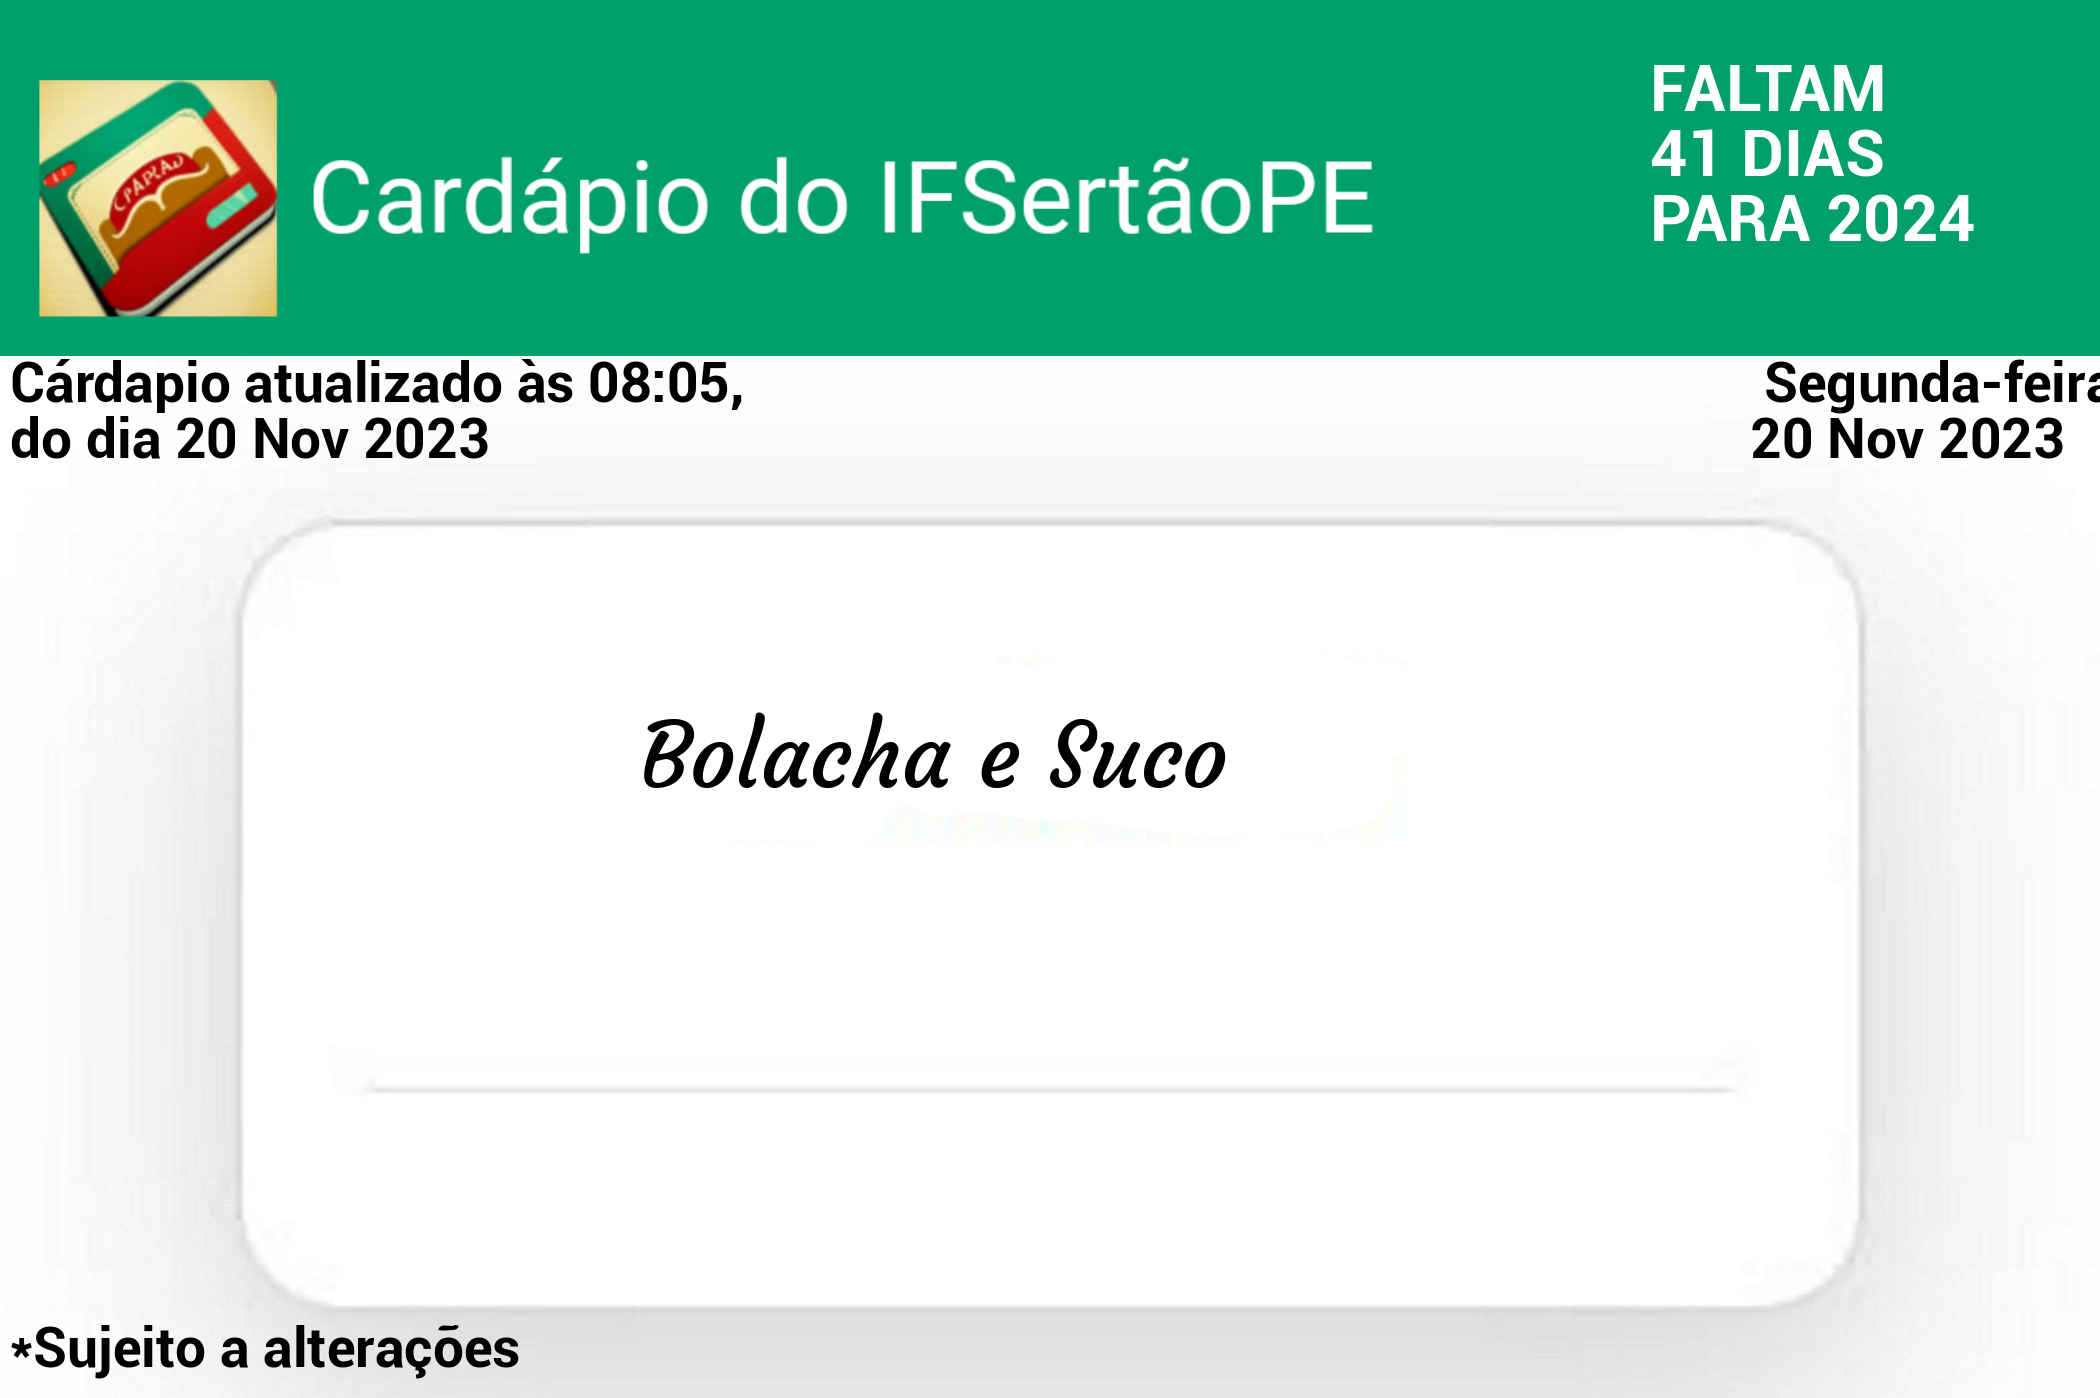
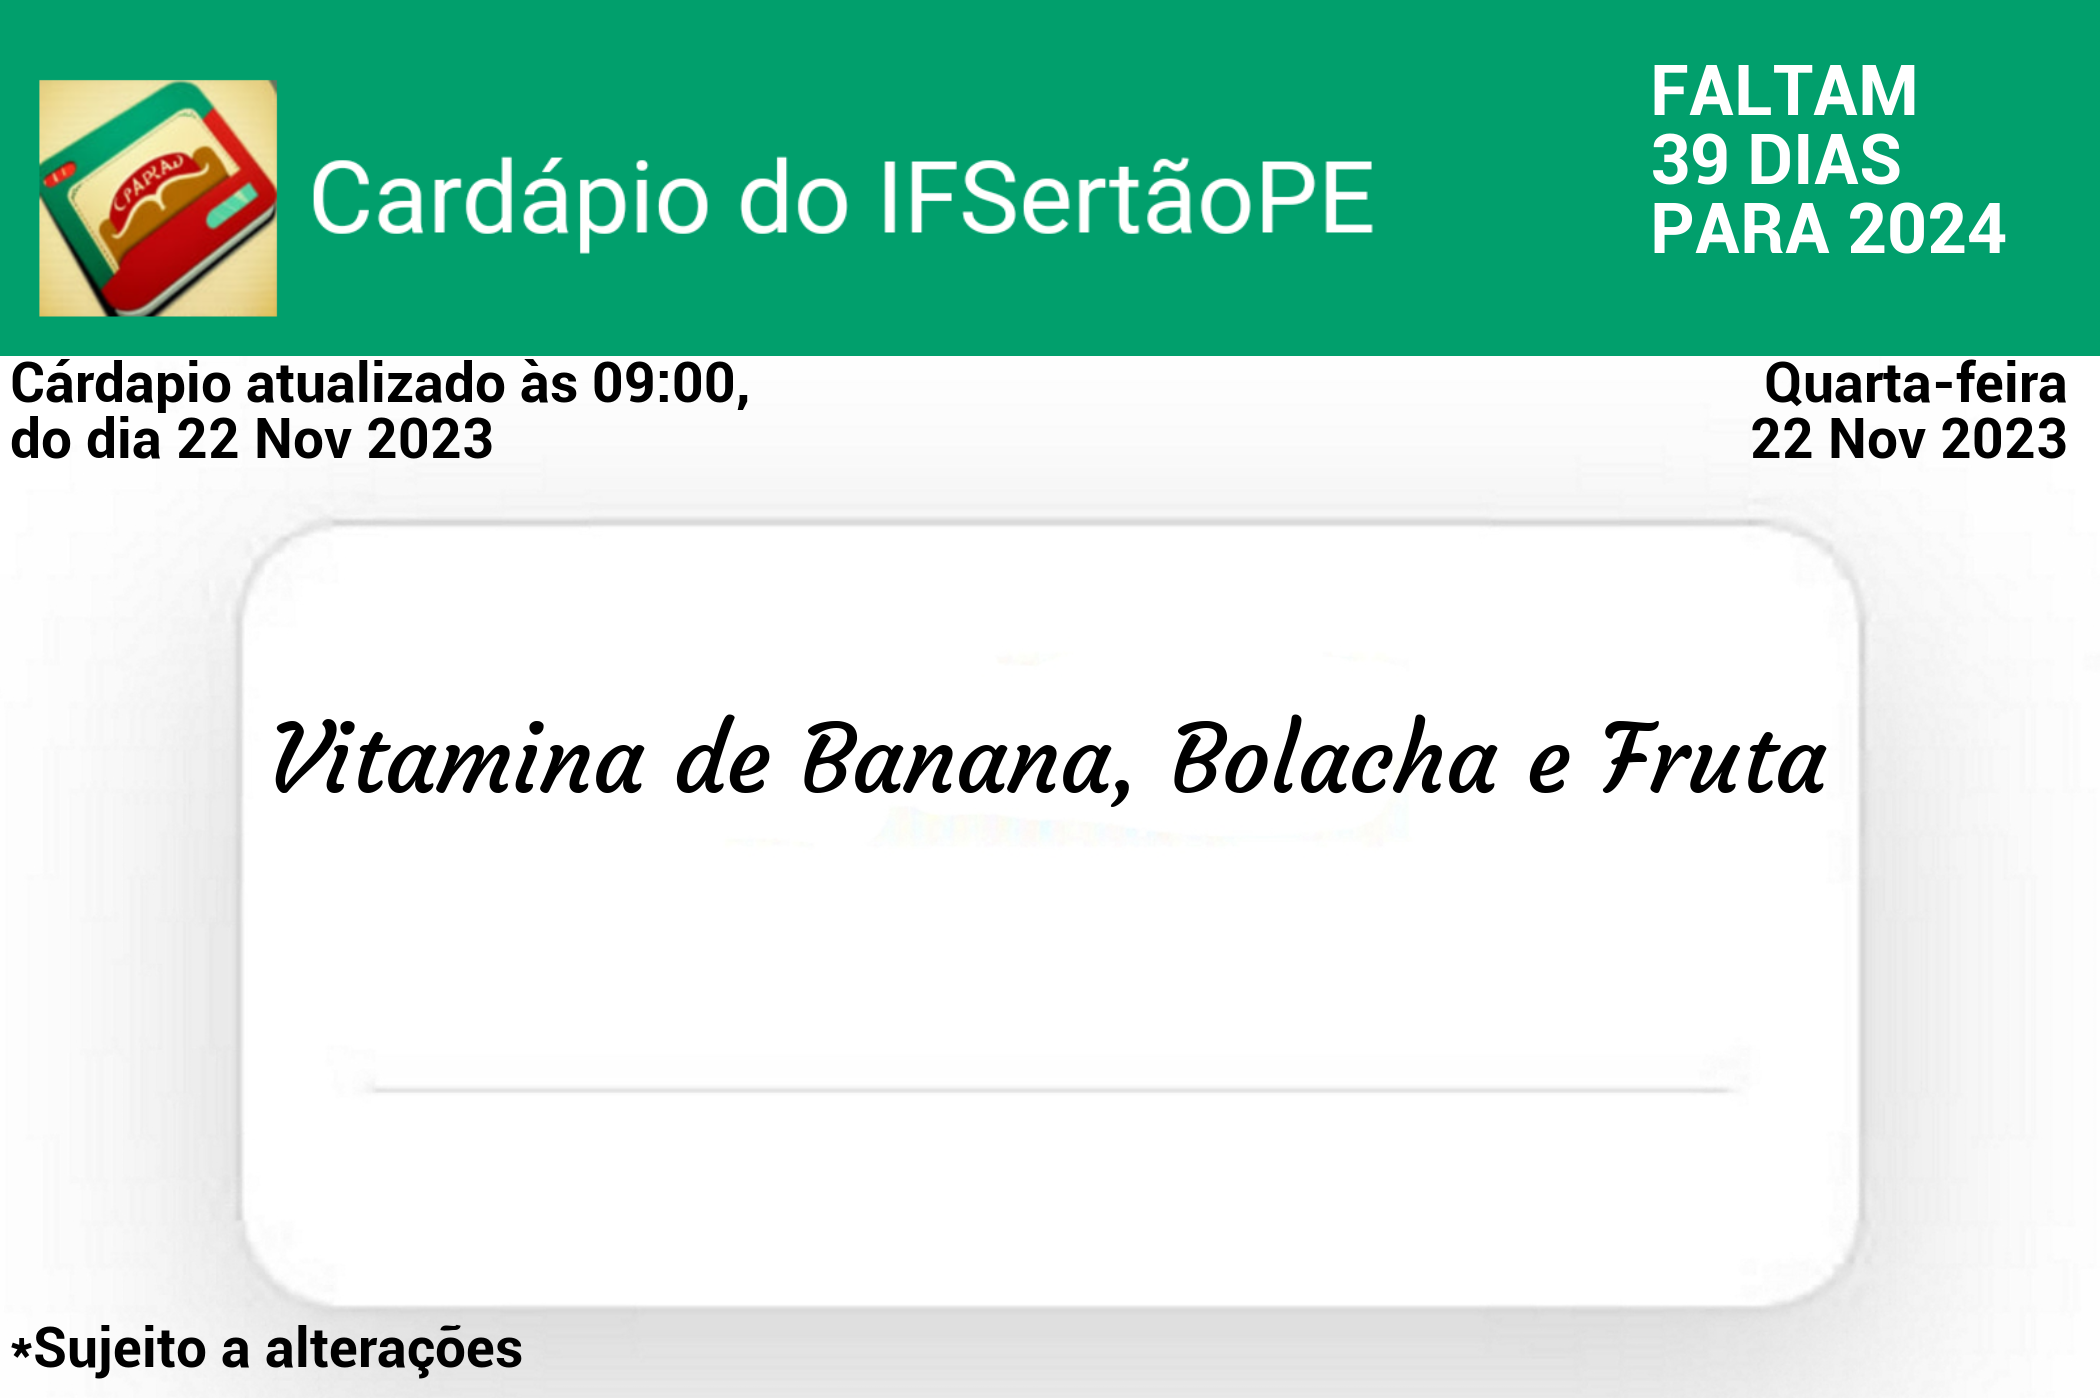
config resize letter

diff --git a/src/create_template.py b/src/create_template.py
@@ -14,8 +14,8 @@ def _create_painel_food_(food_name:str,path:str='test.png'):
     print(f'food name: {food_name}\npath: {path}')
     font_att = ImageFont.truetype(font_name, 55)
     font_date = ImageFont.truetype(font_name, 55)
-    font_date_y = ImageFont.truetype(font_name, 65)
-    font_food_name = ImageFont.truetype("src/font/Courgette-Regular.ttf",90)
+    font_date_y = ImageFont.truetype(font_name, 70)
+    font_food_name = ImageFont.truetype("src/font/Courgette-Regular.ttf",95)
     img = Image.open(path_img).convert('RGB')
     draw = ImageDraw.Draw(img)
 

diff --git a/src/tools/resize_for_text.py b/src/tools/resize_for_text.py
@@ -6,7 +6,7 @@ def resize_for_text(text):
     if size > 5:
         w_n = len(text.split())
         print(f'size: {size}')
-        x = base_px - char_px*(size-6) + w_n*20
+        x = base_px - (char_px*(size-7) + w_n*2)
         return x
     else:
         return base_px

diff --git a/test.py b/test.py
@@ -1,4 +1,4 @@
 from src.create_template import create_painel_food as cpf
 
 
-print(cpf('Bolacha e Suco','test.png'))
+print(cpf('Vitamina de Banana, Bolacha e Fruta','test.png'))
